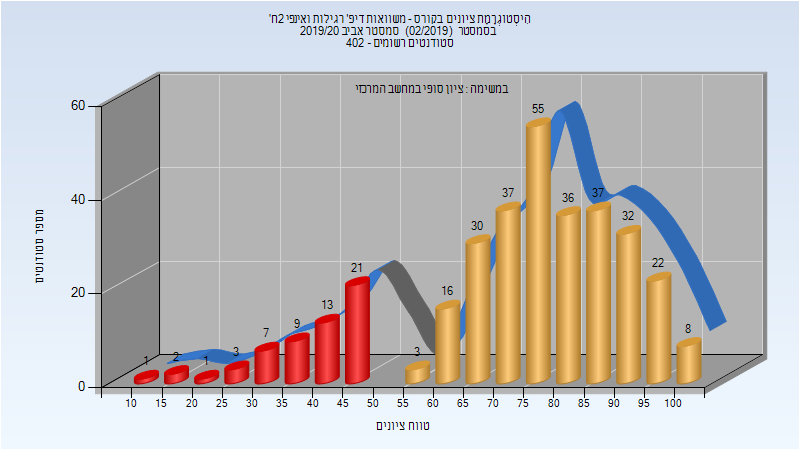
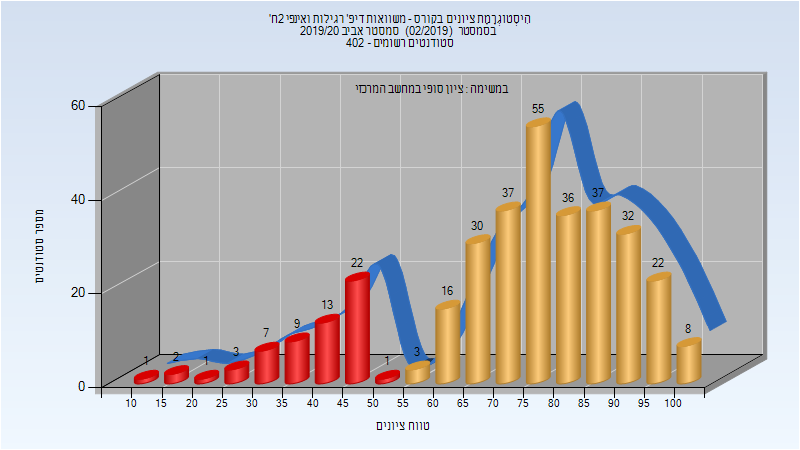
Deploy michael-maltsev/technion-histograms to github.com/michael-maltsev/technion-histograms.git:gh-pages

Changed region(s): [[0.4375, 0.56, 0.5625, 0.8089], [0.4688, 0.8089, 0.5, 0.8711]]

diff --git a/234117/index.html b/234117/index.html
@@ -642,12 +642,12 @@
 </thead>
 <tbody>
 <tr>
-<td>428</td>
-<td>386/42</td>
-<td>90</td>
+<td>429</td>
+<td>390/39</td>
+<td>91</td>
 <td>21</td>
 <td>100</td>
-<td>75.533</td>
+<td>75.807</td>
 <td>78</td>
 </tr>
 </tbody>

diff --git a/234117/README.md b/234117/README.md
@@ -220,7 +220,7 @@
 
 | סטודנטים | עברו/נכשלו | אחוז עוברים | ציון מינימלי | ציון מקסימלי | ממוצע | חציון |
 | ---- | ---- | ---- | ---- | ---- | ---- | ---- |
-| 428 | 386/42 | 90 | 21 | 100 | 75.533 | 78 |
+| 429 | 390/39 | 91 | 21 | 100 | 75.807 | 78 |
 
 ## אביב 2020
 
